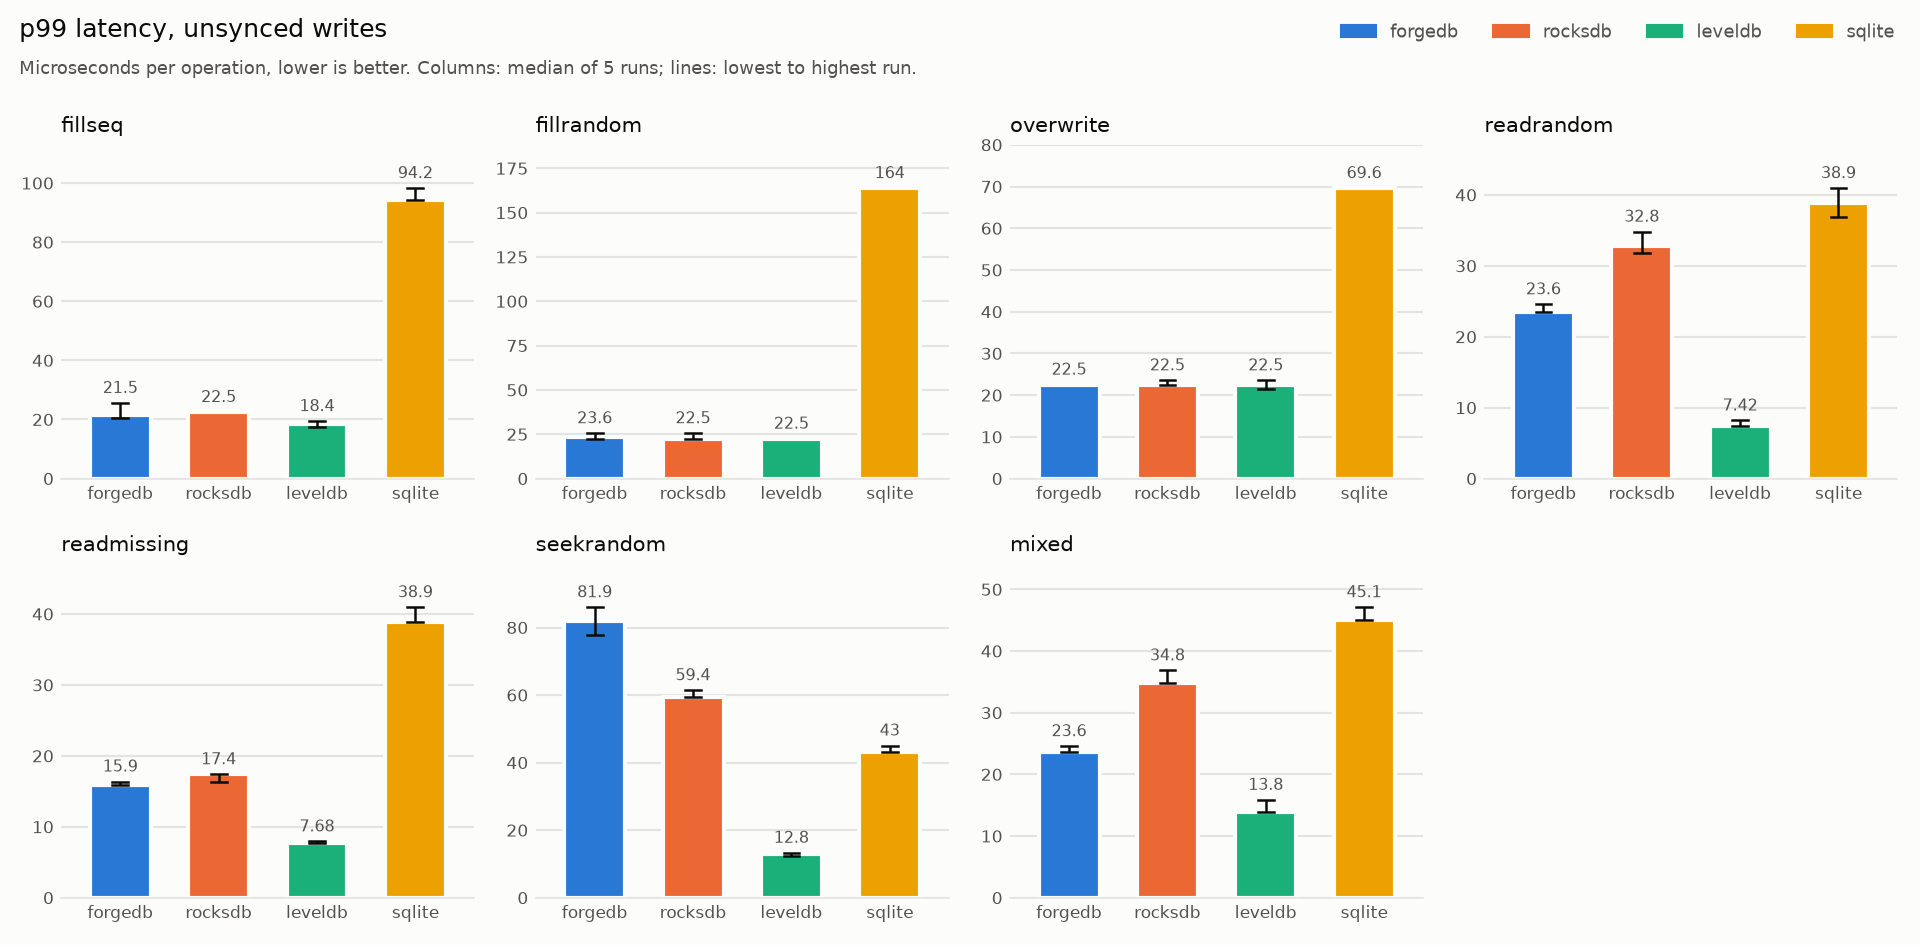
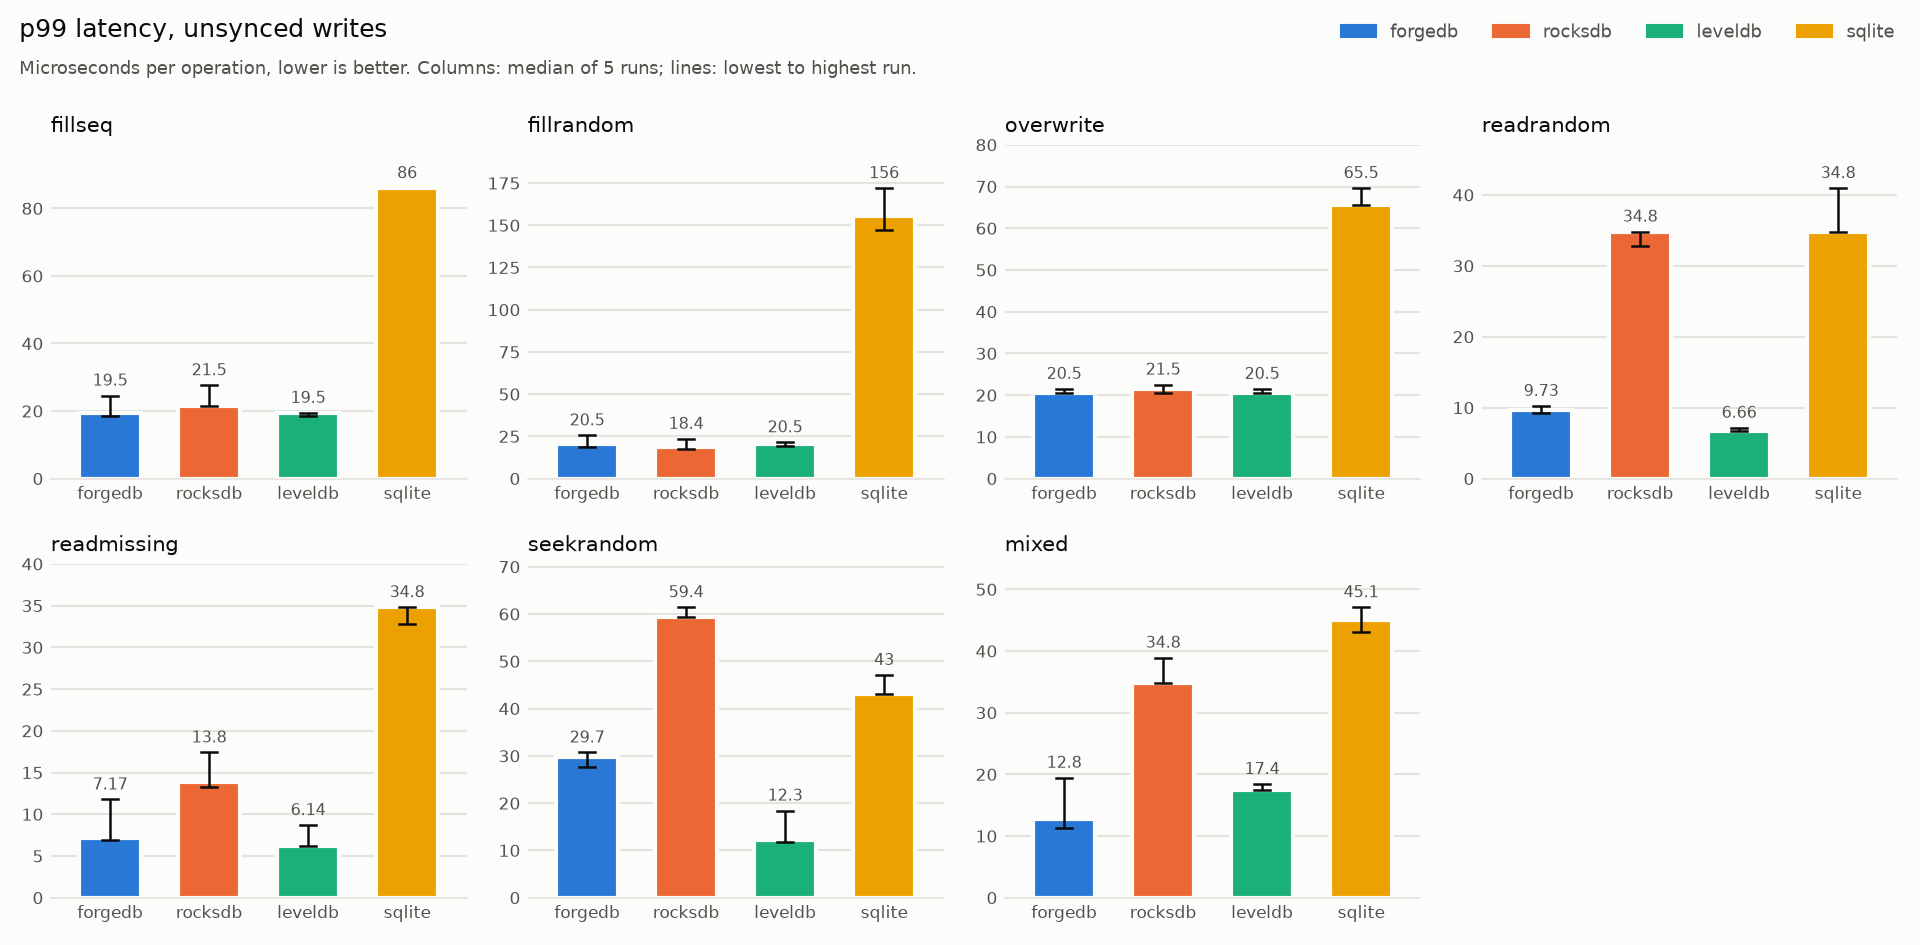
docs/benchmarks.md: final results (all engines, method followed); Phase 5 closed

diff --git a/docs/benchmarks.md b/docs/benchmarks.md
@@ -4,40 +4,52 @@ ForgeDB against RocksDB, LevelDB and SQLite on one Windows machine, with the sam
 same data and the same settings where the engines have them. Everything here comes from
 `scripts\bench.ps1` and `bench\plot.py`; the numbers are measured, never estimated.
 
-## Results: unsynced writes (first run, 2026-11-02)
+## Results: unsynced writes (2026-11-05)
 
-**Status.** The first full run, before any Phase 5.3 optimization (commit 314d43e). The final
-numbers come from a run after 5.3, on the final code, with the machine set up as described
-below. Synced writes: [their own section](#results-synced-writes-2026-11-02).
+**Run.** The final code (commit 9560246; the engine as of Phase 5.3's commit e016e15), set up as
+the [method](#method) asks: High performance power plan, AC power, the database folder excluded
+from Defender's scanning (confirmed), runs interleaved across engines. It replaces the first run
+of 2026-11-02 (commit 314d43e, before Phase 5.3), whose tables are in this file's history.
 
 **Machine.** Dell G5 5500 laptop: Intel Core i7-10750H (6 cores, 12 threads), 15.8 GB RAM at
-2933 MHz, SK hynix PC611 1 TB NVMe SSD; Windows 11 Home 25H2 (build 26200.9711), on AC power.
-MSVC 19.51 (Visual Studio 18), Release (`/O2 /Ob2`); RocksDB 11.8.1, LevelDB (vcpkg 2026-03-11),
-SQLite 3.53.4. **Two departures from the method:** the power plan was Balanced, not High
-performance, and whether Defender skipped the database folder could not be read (the script
-did not run as an administrator). Both would affect every engine; across the 5 runs, most
-results vary by a few percent, far less than the gaps between engines.
+2933 MHz, SK hynix PC611 1 TB NVMe SSD; Windows 11 Home 25H2 (build 26200.9711). MSVC 19.51
+(Visual Studio 18), Release (`/O2 /Ob2`); RocksDB 11.8.1, LevelDB (vcpkg 2026-03-11), SQLite
+3.53.4.
 
 1,000,000 keys of 16 B with 100-byte values, one thread, 8 MiB cache, 4 MiB write buffer, 10-bit
 Bloom filters, no compression, unsynced. Median [lowest–highest] of 5 runs.
 
 | ops/s | ForgeDB | RocksDB | LevelDB | SQLite |
 |---|---|---|---|---|
-| fillseq | 160K [130K–176K] | 126K [125K–127K] | 183K [178K–184K] | 21.3K [20.8K–24.2K] |
-| fillrandom | 151K [145K–151K] | 107K [98.9K–109K] | 154K [153K–155K] | 5,879 [5,858–5,904] |
-| overwrite | 136K [134K–136K] | 102K [100K–103K] | 143K [142K–146K] | 8,525 [8,437–8,596] |
-| readrandom | 90K [86.8K–91.8K] | 66.8K [66K–67.8K] | 344K [333K–351K] | 53.9K [53.3K–59.3K] |
-| readmissing | 358K [352K–366K] | 486K [479K–497K] | 405K [396K–408K] | 54.9K [53.1K–55.6K] |
-| readseq | 1.89M [1.79M–1.92M] | 2.57M [2.53M–2.66M] | 3.79M [3.7M–3.83M] | 2.26M [2.2M–2.36M] |
-| seekrandom | 28K [27K–28.9K] | 36.9K [36.2K–37.1K] | 142K [141K–143K] | 46.8K [46.3K–46.9K] |
-| mixed | 95.2K [94.1K–96.3K] | 64.8K [63.8K–65.7K] | 228K [205K–231K] | 37.1K [35.9K–38K] |
+| fillseq | 180K [177K–183K] | 128K [122K–130K] | 193K [189K–198K] | 27.3K [23.6K–27.8K] |
+| fillrandom | 155K [145K–158K] | 110K [108K–111K] | 163K [159K–168K] | 6,078 [5,949–6,149] |
+| overwrite | 154K [151K–155K] | 105K [102K–106K] | 155K [153K–159K] | 8,743 [8,534–8,950] |
+| readrandom | 188K [182K–192K] | 70.2K [68.2K–71.5K] | 351K [333K–372K] | 64.8K [58.7K–66.9K] |
+| readmissing | 436K [311K–469K] | 573K [424K–604K] | 481K [416K–498K] | 65.7K [64.1K–69.5K] |
+| readseq | 2.55M [2.43M–2.66M] | 2.74M [2.7M–2.82M] | 4.06M [4.02M–4.11M] | 2.35M [2.23M–2.47M] |
+| seekrandom | 59.8K [58.2K–60.9K] | 36.8K [36K–37.6K] | 142K [120K–147K] | 49.2K [48.1K–51K] |
+| mixed | 181K [176K–194K] | 70.2K [69.1K–71.6K] | 251K [237K–253K] | 40.6K [40.3K–40.9K] |
+
+| p99 latency, µs | ForgeDB | RocksDB | LevelDB | SQLite |
+|---|---|---|---|---|
+| fillrandom | 20.5 | 18.4 | 20.5 | 156 |
+| readrandom | 9.73 | 34.8 | 6.66 | 34.8 |
+| readmissing | 7.17 | 13.8 | 6.14 | 34.8 |
+| seekrandom | 29.7 | 59.4 | 12.3 | 43 |
+| mixed | 12.8 | 34.8 | 17.4 | 45.1 |
 
 | write amplification | ForgeDB | RocksDB | LevelDB | SQLite |
 |---|---|---|---|---|
-| fillseq | 3.09 | 2.19 | 2.18 | 54.3 |
+| fillseq | 2.18 | 2.19 | 2.18 | 54.3 |
 | fillrandom | 6.04 [6.02–6.12] | 6.43 | 6.32 [6.30–6.34] | 115 |
 | overwrite | 8.61 [8.51–8.64] | 11.2 | 8.03 [8.02–8.12] | 70.3 |
-| mixed | 10.5 [10.1–10.5] | 12.1 | 44.6 [44.4–45.0] | 70.3 |
+| mixed | 10.5 [10.1–10.5] | 12.1 | 44.7 [44.5–44.9] | 70.3 |
+
+| space amplification | ForgeDB | RocksDB | LevelDB | SQLite |
+|---|---|---|---|---|
+| fillseq | 1.04 | 0.998 | 0.992 | 1.22 |
+| fillrandom | 1.13 [1.11–1.15] | 0.999 | 0.993 | 1.21 |
+| overwrite | 1.32 [1.32–1.39] | 1.00 | 1.15 [1.14–1.15] | 1.21 |
 
 ![Throughput, unsynced](benchmarks/throughput-unsynced.png)
 ![p99 latency, unsynced](benchmarks/latency-p99-unsynced.png)
@@ -46,88 +58,82 @@ Bloom filters, no compression, unsynced. Median [lowest–highest] of 5 runs.
 
 ### Where ForgeDB wins
 
-- **Writes.** ForgeDB writes as fast as LevelDB (fillrandom 151K vs 154K ops/s) and about 40%
-  faster than RocksDB (107K), with the lowest write amplification in fillrandom (6.04; LevelDB's
-  is lower in overwrite, 8.03 against 8.61). RocksDB's adapter keeps its statistics switched on
-  (for the counters the benchmark reports), which costs RocksDB some of that gap; how much was
-  not measured.
-- **Against RocksDB's reads.** readrandom 90K vs 66.8K ops/s, and mixed 95.2K vs 64.8K.
+- **Writes, against RocksDB and SQLite.** 40–47% more writes per second than RocksDB (fillrandom
+  155K vs 110K, overwrite 154K vs 105K), and the lowest write amplification in fillrandom (6.04).
+  RocksDB's adapter keeps its statistics switched on (for the counters the benchmark reports),
+  which costs RocksDB some of that gap; how much was not measured.
+- **Reads, against RocksDB and SQLite.** Point reads 2.7 times RocksDB's (188K vs 70.2K ops/s,
+  p99 9.7 µs vs 34.8 µs) and 2.9 times SQLite's; seeks second of the four (59.8K, against 49.2K
+  for SQLite and 36.8K for RocksDB); mixed 181K against 70.2K and 40.6K.
+- **Sequential writes are written once.** fillseq write amplification 2.18, as LevelDB's and
+  RocksDB's (it was 3.09 before Phase 5.3).
 
 ### Where ForgeDB loses, and why
 
-- **Point reads: LevelDB is 3.8 times as fast** (readrandom 344K vs 90K ops/s; typical latency
-  2.4 µs vs 11.3 µs), and mixed follows (228K vs 95.2K). The data is 14 times the 8 MiB block
-  cache, so most random reads need a block from a table file. ForgeDB does that with a
-  `ReadFile` call per block; LevelDB on 64-bit Windows maps up to 1,000 table files into memory
-  and reads blocks from the mapping, with no system call (`util/env_windows.cc`, the vcpkg
-  version). RocksDB, which also reads with a call per block, has a typical latency close to
-  ForgeDB's (13.8 µs). That points to the read path; profiling in 5.3 is to confirm it. A second
-  possible factor: LevelDB keeps compacting during reads (below), which may leave fewer tables
-  for a read to look in.
-- **Seeks and scans: the slowest of the four.** seekrandom 28K ops/s, against 36.9K (RocksDB),
-  46.8K (SQLite) and 142K (LevelDB); readseq 1.89M entries/s, against 2.26M to 3.79M. A seek
-  reads a block from every level that has the key range, so it pays the per-block cost several
-  times; why ForgeDB is behind RocksDB here as well is for the profiler.
-- **Absent keys: RocksDB is faster** (readmissing 486K vs 358K ops/s). These are answered by the
-  Bloom filters without reading a block; RocksDB's filter differs from ForgeDB's (and LevelDB's).
-  Not investigated yet.
-- **Sequential writes rewrite data.** In fillseq, ForgeDB wrote 220 MB of tables (flushes and
-  compactions) for 116 MB of data; LevelDB and RocksDB wrote 110 and 116 MB, their flushes only,
-  because sorted tables that overlap nothing below can move down a level whole. ForgeDB compacts
-  all of level 0 at once and does not move whole tables, hence write amplification 3.09 against
-  2.19.
-- **Space: 13% over the data after fillrandom** (1.13, against 1.00 for RocksDB and 1.01 for
-  LevelDB). fillrandom writes every key once, so this is not old versions of keys. One lead:
-  ForgeDB keeps the log its last flush retired (see the synced results, below); not confirmed.
+- **Point reads and seeks: LevelDB is 1.9 and 2.4 times as fast** (readrandom 351K vs 188K
+  ops/s, typical latency 2.6 µs vs 5.1 µs; seekrandom 142K vs 59.8K), and mixed follows (251K vs
+  181K). Both engines now read table blocks from memory-mapped files (Phase 5.3 halved ForgeDB's
+  gap). Two differences remain that are known, not measured: ForgeDB copies each block out of the
+  mapping and keeps it in its block cache, which keeps a disk error an error instead of a crash;
+  LevelDB uses the mapped bytes in place and does not put those blocks in its block cache. And LevelDB keeps compacting while it
+  only reads (below), which may leave fewer tables for a read to look in. Not profiled further.
+- **Scans: LevelDB is 1.6 times as fast, RocksDB 7%** (readseq 4.06M and 2.74M entries/s vs
+  2.55M). Not profiled.
+- **Absent keys: RocksDB is 1.3 times as fast** (readmissing 573K vs 436K ops/s; typical latency
+  1.3 µs vs 2.0 µs). These are answered by the Bloom filters without reading a block; RocksDB's
+  filter is a different design from ForgeDB's (and LevelDB's). Not investigated.
+- **Writes: LevelDB is 5–7% faster** in the fills (fillseq 193K vs 180K, fillrandom 163K vs 155K;
+  overwrite is even). Not investigated.
+- **Space: 13% over the data after fillrandom** (1.13, against 0.99–1.00 for LevelDB and RocksDB),
+  and 32% after overwrite. fillrandom writes every key once, so this is not old versions of keys.
+  One lead: ForgeDB keeps the log its last flush retired until the next MANIFEST record (ADR 0007),
+  up to one write buffer's worth (4 MiB, about 4% of this data), where LevelDB deletes it after
+  the flush. The rest is not explained.
 
 ### The other engines
 
 - **LevelDB compacts while it only reads.** During readrandom, with no writes at all, LevelDB's
-  compactions wrote 133 MB, and 121 MB during seekrandom: its seek-triggered compactions, which
-  compact a table that reads keep having to look into before finding their key in a deeper
-  level. The same
-  explains its mixed write amplification of 44.6 (481 MB of compaction for 11.6 MB written).
-  This background work runs on another thread, outside the measured operations.
+  compactions wrote 133 MB: its seek-triggered compactions, which compact a table that reads keep
+  having to look into before finding their key in a deeper level. The same explains its mixed
+  write amplification of 44.7. This work runs on another thread, outside the measured operations.
 - **SQLite** is a B-tree with one transaction per write here, so every write rewrites at least
-  one 4 KiB page into its log: write amplification 54–115, and 6–21K writes per second. Its
-  scans are fast (2.26M entries/s): a B-tree keeps each key once, in order.
+  one 4 KiB page into its log: write amplification 54–115, and 6–27K writes per second. Its
+  scans are fast (2.35M entries/s): a B-tree keeps each key once, in order.
 
-## Results: synced writes (2026-11-02)
+## Results: synced writes (2026-11-05)
 
-**Run.** Commit 8821349 (the engines' code is that of the unsynced run), the same laptop, now as
-the method asks: High performance power plan, AC power, the database folder excluded from
-Defender's scanning (confirmed), and the runs interleaved across engines. The four write
-workloads, 20,000 keys, every write synced; 5 runs each.
+The same run: the four write workloads, 20,000 keys, every write synced; 5 runs each.
 
 | ops/s | ForgeDB | RocksDB | LevelDB | SQLite |
 |---|---|---|---|---|
-| fillseq, median [min–max] | 1,762 [1,724–2,000] | 1,704 [1,550–1,888] | 749 [599–1,750] | 1,635 [1,445–1,638] |
-| fillrandom | 1,735 [1,704–1,739] | 1,705 [1,666–1,710] | 780 [712–891] | 1,346 [1,139–1,592] |
-| overwrite | 852 [704–1,841] | 794 [639–908] | 1,260 [830–1,701] | 1,548 [638–1,593] |
-| mixed (10% synced writes) | 16.7K [5,890–17.5K] | 16.5K [3,985–17.8K] | 5,630 [4,556–16.5K] | 15.3K [4,250–15.7K] |
+| fillseq, median [min–max] | 1,693 [835–1,758] | 1,685 [1,129–1,716] | 715 [485–1,677] | 1,269 [531–1,590] |
+| fillrandom | 1,675 [1,650–1,739] | 1,671 [1,189–1,681] | 734 [671–897] | 1,506 [1,086–1,557] |
+| overwrite | 806 [712–1,718] | 723 [642–798] | 1,633 [816–1,701] | 1,573 [1,560–1,610] |
+| mixed (10% synced writes) | 16.7K [3,957–17.6K] | 11.3K [4,571–16.6K] | 16.0K [4,103–16.5K] | 15.7K [15.3K–15.9K] |
 
 ![Throughput, synced](benchmarks/throughput-synced.png)
 
 **What these numbers measure: mostly the SSD.** A synced write waits for `FlushFileBuffers`, and
-on this machine that wait comes in two sizes: about 0.5–0.6 ms (the typical write in most runs,
-for every engine) or about 2–3 ms, and the share of slow ones changes from run to run, which is
-what the wide ranges show. It is not one engine's doing: ForgeDB alone, run after run, went from
-28 s to 77–86 s for the same work in the first full run; and interleaving the engines did not
-make it fall evenly. In this run the fills were slow for LevelDB in 9 of 10 runs while the
-other engines' runs between them were mostly fast; in the first run it was the other way round. The
-cause is not known (the drive's own background work is one candidate), so the medians above say
-which runs the slow flushes landed in, not how fast an engine is.
+on this machine that wait comes in two sizes: about 0.5–0.6 ms, or about 2–3 ms. A run whose
+writes mostly wait the short time does about 1,600–1,750 writes per second, whatever the engine;
+a run with many long waits, 500–900. The medians therefore mostly say which runs the long waits
+fell in. Where they fall is not plain noise, though: in both interleaved runs (2026-11-02 and
+this one) they hit LevelDB's fills in 9 of 10 runs, RocksDB's overwrites in every run, ForgeDB's
+overwrites in 3 and 4 of 5 and SQLite's overwrites in 2 and 0 of 5, with other engines' runs
+fast in between. In the first run, which ran each engine's runs back to back, it was nearly the other way
+round. The cause is not known. One hypothesis for overwrite, where the LSM engines flush their
+write buffer partway through (40,000 writes in all) and SQLite has nothing to flush: a flush's
+table write and sync slow the log syncs beside it. Finding out needs a disk-level trace (ETW),
+not done.
 
 **What does hold.** When the flushes are fast, every engine is held to the drive's flush time:
-the best runs are within 20% of each other (fillseq: ForgeDB 2,000 writes/s, RocksDB 1,888,
-LevelDB 1,750, SQLite 1,638), at a typical 0.49–0.59 ms per write, with ForgeDB at the top of
-that range. Write amplification is 1.19 for the three LSM engines in the fills
+the best fillseq runs are within 10% of each other (ForgeDB 1,758 writes/s, RocksDB 1,716,
+LevelDB 1,677, SQLite 1,590). Write amplification is 1.19 for the three LSM engines in the fills
 (just the log; 20,000 keys never fill a write buffer) and 54–78 for SQLite.
 
-**Space after synced overwrite: ForgeDB 3.78, LevelDB 2.11, RocksDB 1.64.** At this size one
-flush has happened, and ForgeDB keeps the log that flush retired until the next MANIFEST
-record (ADR 0007), as well as the current one; LevelDB deletes the old log after the flush. The
-same retired log, up to one write buffer's worth, is a lead for the 13% in the unsynced results.
+**Space after synced overwrite: ForgeDB 3.78, LevelDB 2.11, RocksDB 1.64.** At this size one flush
+has happened, and ForgeDB keeps the log that flush retired as well as the current one (the lead
+for the space amplification above).
 
 ## Phase 5.3: two optimizations
 
@@ -135,10 +141,10 @@ Profiled with `scripts\cpu-profile.ps1` (Visual Studio's CPU sampling, Release b
 symbols), then measured with `bench.ps1 -Modes unsynced -Engines forgedb`: ForgeDB alone,
 1,000,000 keys, 5 runs, median. **Before:** commit 45b186f, 2026-11-03 (High performance plan;
 Defender exclusion not confirmed). **After:** commit e016e15, 2026-11-04 (Balanced plan; the
-exclusion confirmed). The settings differ between the two runs; the first full run showed
-ForgeDB within a percent or two on Balanced and High performance (readrandom 90.0K and 89.6K
-ops/s), and the workloads neither change touches stayed within 2% here, so the differences
-below are the changes'.
+exclusion confirmed). Absolute numbers move between days on this laptop: the final run
+(2026-11-05, High performance) measured ForgeDB 6–18% above the "after" run even where neither
+change applies (readmissing 436K vs 370K). The comparison below rests on the workloads neither
+change touches staying within 2% between these two runs (readmissing, fillrandom, overwrite).
 
 | ForgeDB, unsynced | before | after | change |
 |---|---|---|---|
@@ -193,11 +199,8 @@ tests per preset, including new tests for each change).
 
 ### Still behind
 
-These numbers compare ForgeDB with itself; the other engines are measured again in the final run.
-Against the first run's figures, LevelDB's point reads (344K ops/s) and seeks (142K) are still
-ahead of ForgeDB's 137.5K and 53.9K. Where the rest of that gap comes from has not been profiled
-yet; one difference is known: LevelDB hands out pointers into its mapping and skips the copy and
-the block cache, which ForgeDB keeps for its error handling.
+In the final run, ForgeDB's point reads (188K ops/s) and seeks (59.8K) are second only to
+LevelDB's (351K and 142K); see [where ForgeDB loses](#where-forgedb-loses-and-why).
 
 ## Running them
 

diff --git a/TODO.md b/TODO.md
@@ -368,8 +368,10 @@ with MSVC and clang-cl. No Linux, no WSL, no drivers, no admin rights.
 - [x] Every optimization keeps the full test suite green (2026-11-03, commit e016e15: all eight presets build with no warnings; 567–570 tests per test preset pass, and the fuzz smoke runs)
 
 ### ✅ Exit gate — Phase 5
-- [ ] `docs/benchmarks.md` has comparison charts for all workloads, both sync modes
-- [ ] Includes an honest section on where ForgeDB loses and why
+- [x] `docs/benchmarks.md` has comparison charts for all workloads, both sync modes (final run 2026-11-05, commit 9560246, all four engines, set up as the method asks: throughput, p99 latency, write and space amplification for the 8 unsynced workloads at 1,000,000 keys; the synced mode covers the 4 write workloads at 20,000 keys, since reads do not depend on it)
+- [x] Includes an honest section on where ForgeDB loses and why ("Where ForgeDB loses, and why": point reads and seeks behind LevelDB by 1.9× and 2.4×, scans behind LevelDB and RocksDB, absent keys behind RocksDB, fills 5–7% behind LevelDB, space amplification 1.13 with only part of it explained; with what is known, what is a hypothesis and what was not investigated)
+
+> Phase 5 closed (2026-11-05): every item and exit-gate check met. ForgeDB, against the first run: point reads 90K → 188K ops/s, seeks 28K → 60K, scans 1.89M → 2.55M entries/s, fillseq write amplification 3.09 → 2.18 (two Phase 5.3 changes, full suite green in all presets). Open, and written down in `docs/benchmarks.md`: synced writes on this laptop take one of two flush times, and which runs get the slow one follows a pattern by engine and workload whose cause is unknown (a disk-level trace would tell); the rest of the space amplification; the remaining read gap to LevelDB.
 
 ---
 

diff --git a/README.md b/README.md
@@ -9,8 +9,9 @@ memtables are flushed to immutable, sorted table files with bloom filters, and a
 which files are live, so the database recovers to a consistent state after a crash. The core
 library has no third-party dependencies.
 
-**Status: Phase 4 closed (snapshots, background flushes, leveled compaction, statistics, the
-stress test, and compile-time lock checking); Phase 5 (benchmarks and tuning) is next.** Not for production use.
+**Status: Phase 5 closed: benchmarked against RocksDB, LevelDB and SQLite
+([docs/benchmarks.md](docs/benchmarks.md)), with two optimizations from profiling; Phase 6
+(write-up and release) is next.** Not for production use.
 See [TODO.md](TODO.md) for the plan.
 
 ```cpp
@@ -99,6 +100,11 @@ they are recorded in [TODO.md](TODO.md) with how they were measured.
   unsynced: 5.26–5.37 bytes written to tables per byte written by the user once compaction has
   settled (5.08–5.18 when the last write returns), at 137–142 k writes/s with no stalls (3 runs;
   `BM_FillRandomWriteAmplification`).
+- **Against RocksDB, LevelDB and SQLite** (1,000,000 keys, unsynced, one thread, 5 runs;
+  [docs/benchmarks.md](docs/benchmarks.md)): random writes 155K/s (LevelDB 163K, RocksDB 110K,
+  SQLite 6.1K); point reads 188K/s (LevelDB 351K, RocksDB 70K, SQLite 65K); seeks with a 10-entry
+  scan 60K/s (LevelDB 142K, SQLite 49K, RocksDB 37K). Where ForgeDB loses, and why, is written
+  there too.
 - **Bloom filters.** 10 bits per key: 0.817% false positives at 100,000 keys (Linux; 0.82%
   predicted). A `Get` for a missing key read a data block 845 times in 100,000.
 - **Corruption detection.** Every log fragment, table block and footer has a CRC-32C. The
